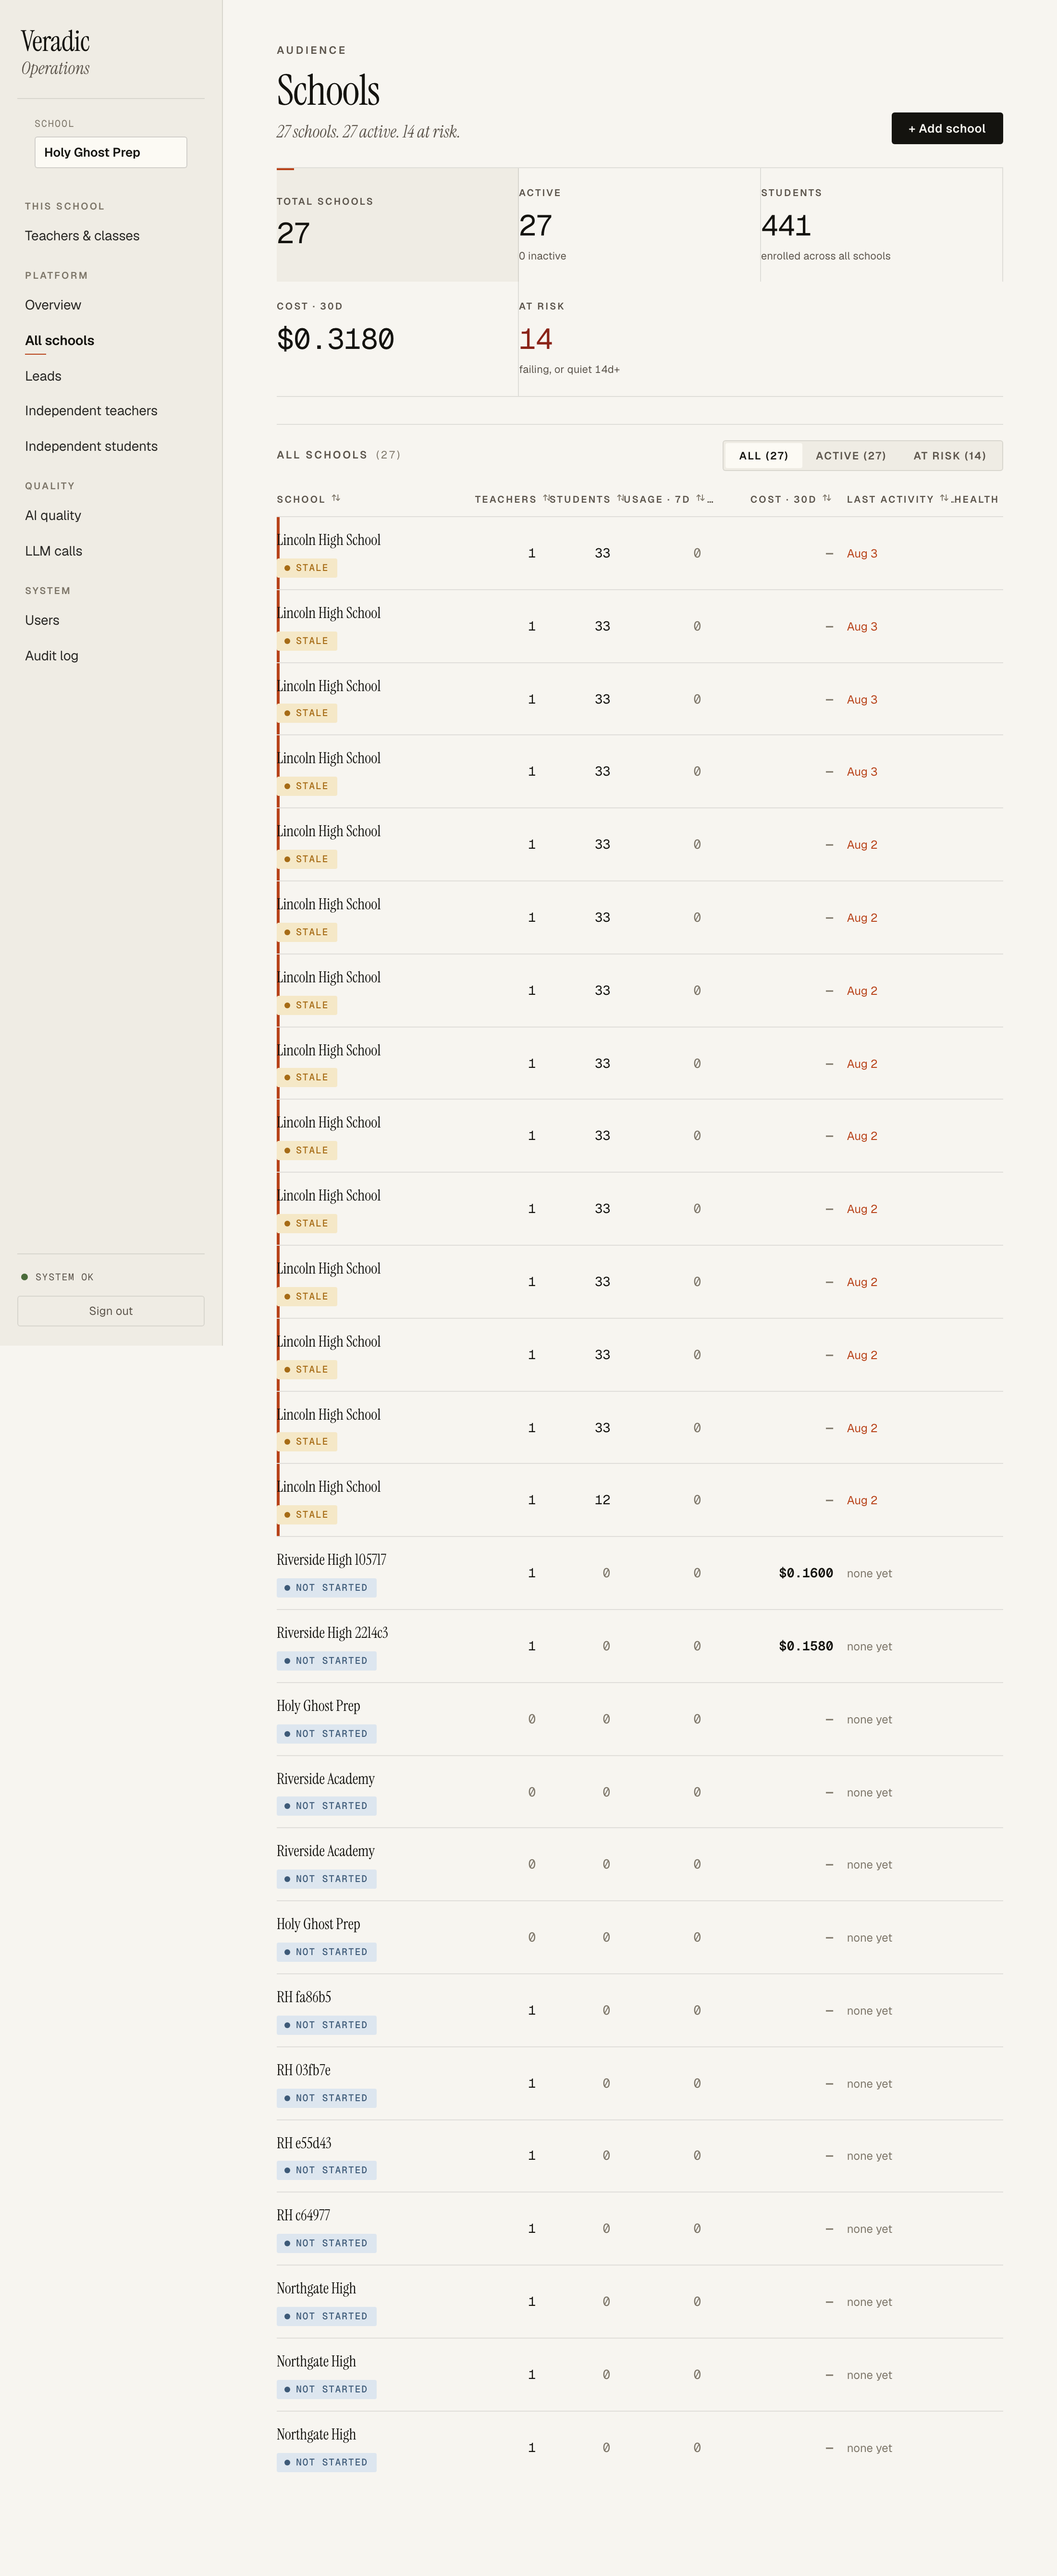
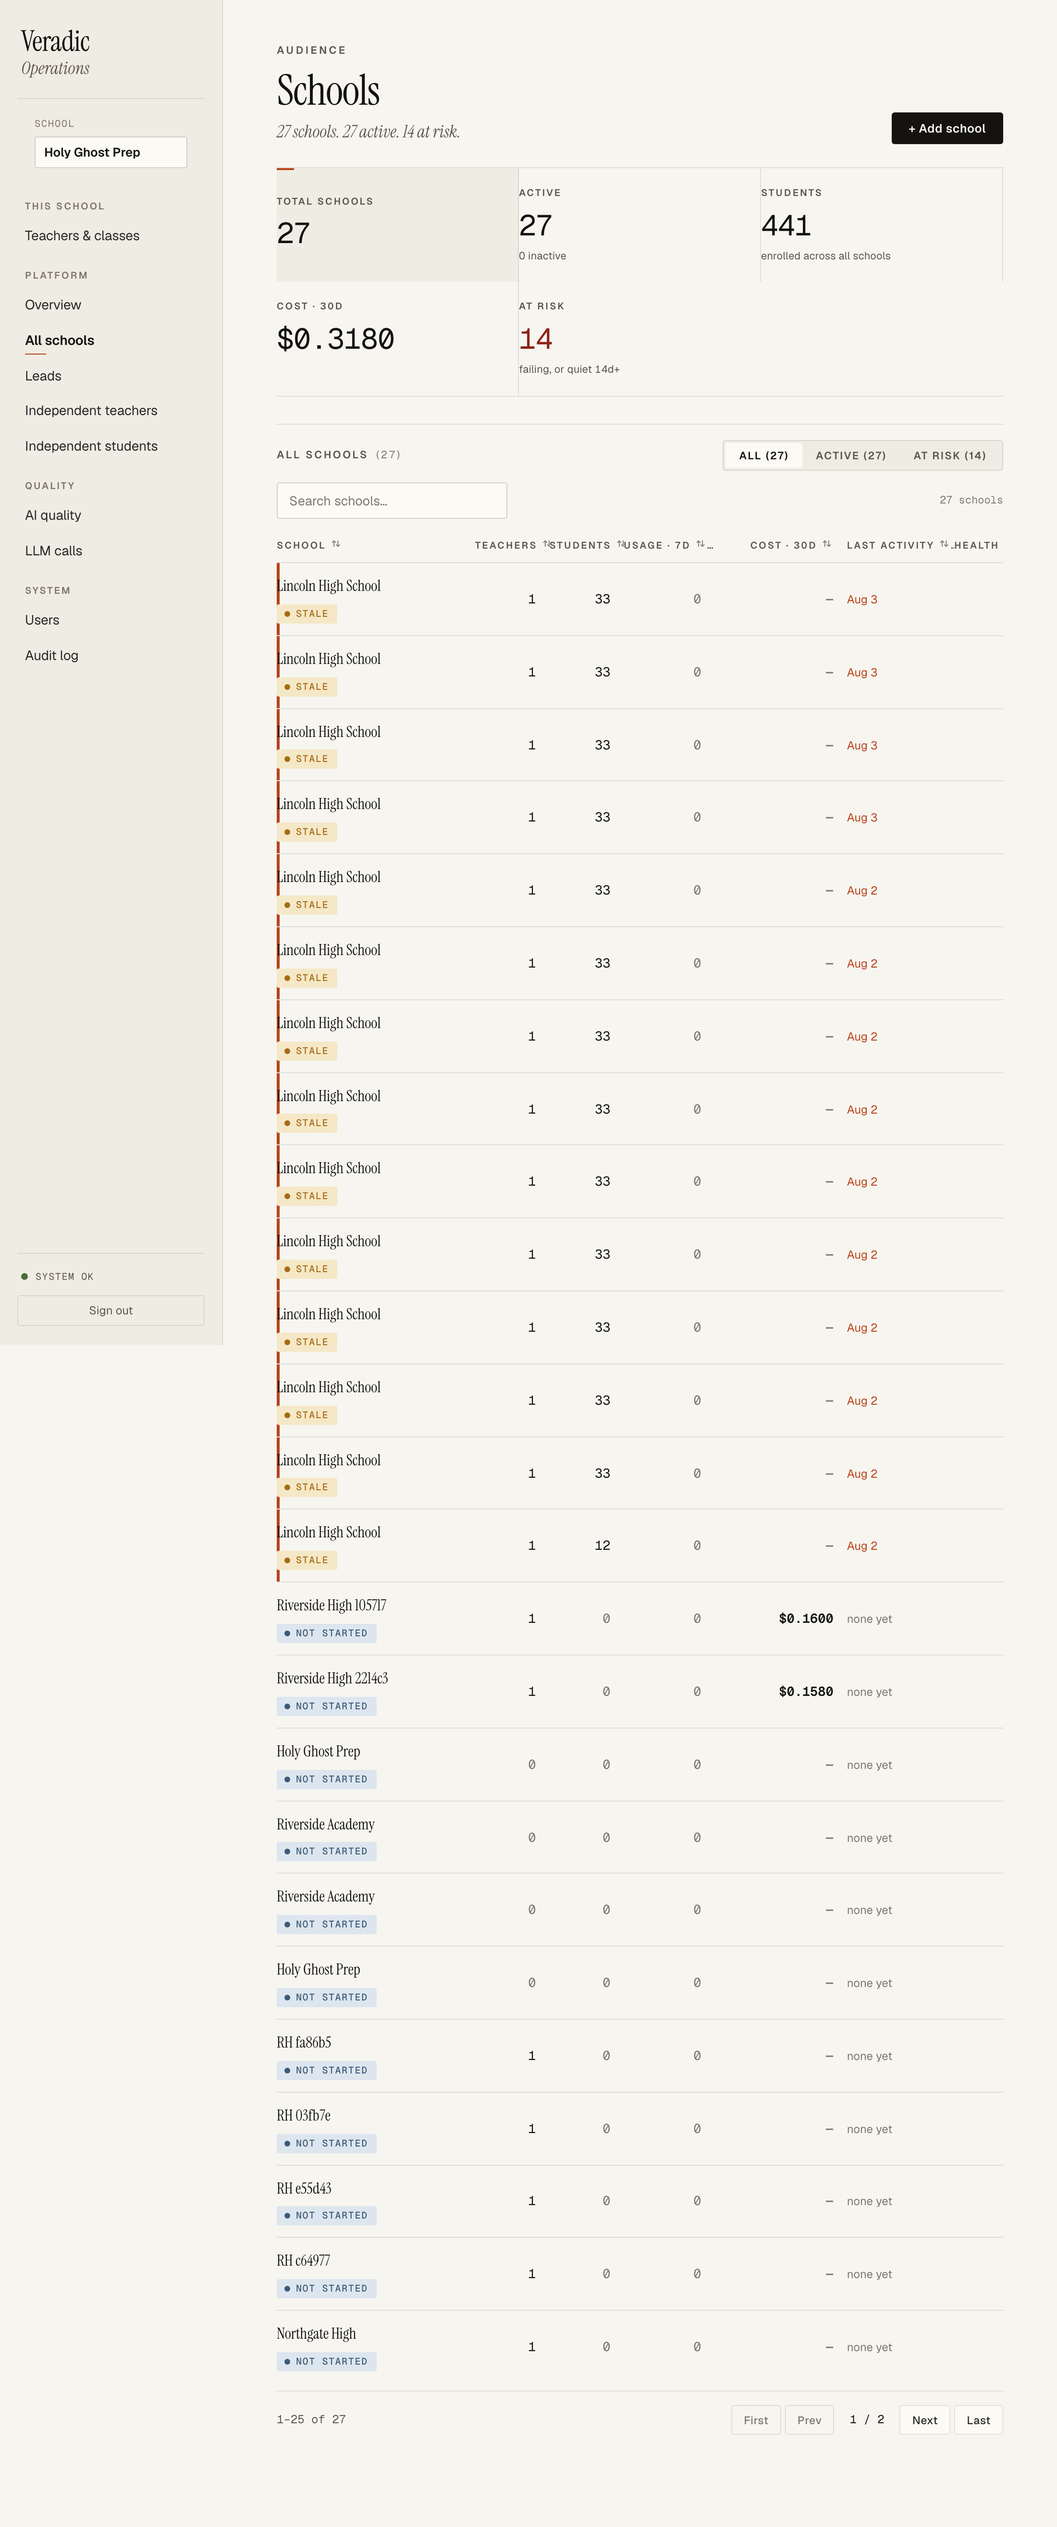
fix(dashboard): act on the cold review — the list feature was wired to nothing
An independent review found the headline change shipped completely
unused: DataTable grew `searchKeys` / `pageSize` and NOT ONE of the 13
call sites passed them. The claim that "every table gets the behaviour
instead of each page wiring it by hand" was false as shipped — zero
tables got it. I built the capability and connected it to nothing.

/schools is the table that actually needed it and is genuinely
client-side (one payload, no server paging, unlike LLM calls / Users /
Audit log which page server-side and can't be replaced by a client
filter). It now searches name, city, state and contact email — because
the real data holds fourteen schools called "Lincoln High School", so
matching on name alone finds fourteen rows. Verified live: 27 schools,
25 rows per page, "riverside" narrows to 4 of 27, no-match state renders.

Second finding, also confirmed: the rail could confidently name a
DIFFERENT school than the page was showing. `api.schools()` filters to
institutional schools; GET /schools/{id} does not. A submission trace
links straight to an indie teacher's synthetic school, so the id failed
the membership test, fell through to whatever was remembered, and the
switcher pointed somewhere else entirely — the exact outcome the
selection ordering exists to prevent. The URL now wins unconditionally,
and when the school can't be named from the list the switcher renders
nothing at all: a <select> whose value matches no option silently shows
[…]

diff --git a/dashboard/src/components/SchoolSwitcher.tsx b/dashboard/src/components/SchoolSwitcher.tsx
@@ -1,36 +1,64 @@
-import { useLocation, useNavigate } from "react-router-dom";
+import { useNavigate } from "react-router-dom";
 import { rememberSchool, type SelectedSchool } from "../lib/useSelectedSchool";
+
+/**
+ * Name plus place. School names repeat heavily in the real data — the
+ * current list holds fourteen "Lincoln High School" — so a name-only
+ * picker is fourteen identical rows with nothing to choose between them.
+ */
+function schoolLabel(s: {
+  name: string;
+  city: string | null;
+  state: string | null;
+}): string {
+  const where = [s.city, s.state].filter(Boolean).join(", ");
+  return where ? `${s.name} — ${where}` : s.name;
+}
 
 /**
  * The console's scope control, directly under the wordmark because
  * everything in "This school" below it is scoped by what's named here.
  *
- * Two shapes, deliberately:
+ * Three shapes, and the third is the important one:
  *
- *   • With one school it renders the NAME, not a dropdown. The name is
- *     context worth keeping on screen; a select of one is a control with
- *     nothing to control.
- *   • With two or more it becomes a native <select> — keyboard- and
+ *   • Two or more schools → a native <select>. Keyboard- and
  *     screen-reader-correct for free, inheriting the console's existing
- *     select styling. A hand-rolled menu would earn nothing here beyond a
+ *     select styling; a hand-rolled menu would earn nothing beyond a
  *     custom caret.
+ *   • Exactly one → the NAME, not a dropdown. The name is context worth
+ *     keeping on screen; a select of one is a control with nothing to
+ *     control.
+ *   • The page is showing a school this list doesn't contain → NOTHING.
+ *     `api.schools()` returns institutional schools only, while
+ *     GET /schools/{id} has no such filter, so an indie teacher's
+ *     synthetic school (reachable from a submission trace) is a real page
+ *     the list has never heard of. A <select> whose value matches no
+ *     option silently displays the FIRST one, which would have the rail
+ *     confidently naming the wrong school. Saying nothing is right.
  *
  * Selection logic lives in `lib/useSelectedSchool` so the rail can read it
  * without this component owning shared state.
  */
 export default function SchoolSwitcher({ selected }: { selected: SelectedSchool }) {
   const navigate = useNavigate();
-  const location = useLocation();
 
   if (selected.loading || selected.schools.length === 0) return null;
 
+  // `selected.name` is resolved from the list, so a null name here means
+  // the current school isn't one we can name — see the third case above.
+  const known = selected.name !== null;
+  if (!known) return null;
+
   const onPick = (nextId: string) => {
     rememberSchool(nextId);
-    // Stay on the same sub-page. Switching schools while looking at
-    // Teachers should show the OTHER school's teachers, not bounce to its
-    // overview and make you find your place again.
-    const tab = new URLSearchParams(location.search).get("tab");
-    navigate(`/schools/${nextId}${tab ? `?tab=${tab}` : ""}`);
+    // Straight to the school page, carrying nothing over. An earlier cut
+    // forwarded `?tab=` so a switch would keep your place — but
+    // SchoolDetail has no tabs and never reads it, and the only page that
+    // WRITES `?tab=` is AI quality, so switching school from
+    // /ai-quality?tab=harness produced /schools/<id>?tab=harness: a
+    // foreign key on a page with no tabs. Carrying a param the
+    // destination can't use is worse than dropping it.
+    navigate(`/schools/${nextId}`);
   };
 
   return (
@@ -49,7 +77,7 @@ export default function SchoolSwitcher({ selected }: { selected: SelectedSchool 
         >
           {selected.schools.map((s) => (
             <option key={s.id} value={s.id}>
-              {s.name}
+              {schoolLabel(s)}
             </option>
           ))}
         </select>

diff --git a/dashboard/src/components/Layout.tsx b/dashboard/src/components/Layout.tsx
@@ -1,5 +1,5 @@
 import { useEffect, useState } from "react";
-import { NavLink, Outlet, useLocation } from "react-router-dom";
+import { NavLink, Outlet } from "react-router-dom";
 import { apiHealth, getToken, setToken } from "../lib/api";
 import SchoolSwitcher from "./SchoolSwitcher";
 import { useSelectedSchool } from "../lib/useSelectedSchool";
@@ -7,6 +7,8 @@ import { useSelectedSchool } from "../lib/useSelectedSchool";
 interface NavItem {
   to: string;
   label: string;
+  /** Match the path exactly, not as a prefix. */
+  end?: boolean;
 }
 
 interface NavGroup {
@@ -45,7 +47,10 @@ const NAV_GROUPS: NavGroup[] = [
     label: "Platform",
     items: [
       { to: "/overview", label: "Overview" },
-      { to: "/schools", label: "All schools" },
+      // `end`: without it NavLink treats /schools as a prefix of
+      // /schools/abc, so this lit up at the same time as the school
+      // entry above — two active items, one rail.
+      { to: "/schools", label: "All schools", end: true },
       { to: "/leads", label: "Leads" },
       { to: "/teachers/independent", label: "Independent teachers" },
       { to: "/students/independent", label: "Independent students" },
@@ -82,7 +87,6 @@ export default function Layout() {
   useEffect(() => apiHealth.subscribe(setApiDown), []);
 
   const school = useSelectedSchool();
-  const location = useLocation();
 
   return (
     <div style={{ display: "flex", minHeight: "100vh" }}>
@@ -100,12 +104,7 @@ export default function Layout() {
             {SCHOOL_LINKS.map((l) => {
               const to = l.to(school.id!);
               return (
-                <NavLink
-                  key={l.label}
-                  to={to}
-                  end
-                  className={`nav-link ${location.pathname === to ? "active" : ""}`}
-                >
+                <NavLink key={l.label} to={to} end className="nav-link">
                   {l.label}
                 </NavLink>
               );
@@ -120,6 +119,7 @@ export default function Layout() {
               <NavLink
                 key={n.to}
                 to={n.to}
+                end={n.end}
                 className={({ isActive }) => `nav-link ${isActive ? "active" : ""}`}
               >
                 {n.label}

diff --git a/dashboard/src/components/DataTable.tsx b/dashboard/src/components/DataTable.tsx
@@ -223,7 +223,11 @@ export default function DataTable<T>({
             <tr>
               <td colSpan={colCount}>
                 <div className="dt-state">
-                  {query.trim() ? (
+                  {/* canSearch, not query alone: `query` survives the row
+                      count dropping below the threshold, so a stale term
+                      would otherwise suppress the caller's own empty state
+                      and offer a Clear button with no search box above it. */}
+                  {canSearch && query.trim() ? (
                     <>
                       <span className="dt-state-title">
                         No {searchLabel} match &ldquo;{query.trim()}&rdquo;.
@@ -231,7 +235,7 @@ export default function DataTable<T>({
                       <div className="dt-state-sub">
                         <button
                           type="button"
-                          className="dt-retry"
+                          className="dt-clear"
                           onClick={() => setQuery("")}
                         >
                           Clear search

diff --git a/dashboard/src/lib/useSelectedSchool.ts b/dashboard/src/lib/useSelectedSchool.ts
@@ -81,10 +81,16 @@ export function useSelectedSchool(): SelectedSchool {
   }, []);
 
   const id = useMemo(() => {
+    // The URL wins UNCONDITIONALLY when there is one, even if the school
+    // isn't in the switcher's list. `api.schools()` returns only
+    // institutional schools, while GET /schools/{id} has no such filter —
+    // so an indie teacher's synthetic school (reachable from a submission
+    // trace) renders a page the list has never heard of. Falling through
+    // there would leave the rail confidently naming a DIFFERENT school
+    // than the page is showing, which is the one outcome this ordering
+    // exists to prevent.
+    if (routeId) return routeId;
     if (!schools || schools.length === 0) return null;
-    // A URL only wins if it names a school we actually have, so a stale
-    // link to a deleted school falls through instead of selecting nothing.
-    if (routeId && schools.some((s) => s.id === routeId)) return routeId;
     const saved = remembered();
     if (saved && schools.some((s) => s.id === saved)) return saved;
     return schools[0].id;

diff --git a/dashboard/src/index.css b/dashboard/src/index.css
@@ -2057,6 +2057,22 @@ input::placeholder, textarea::placeholder { color: var(--muted-2); }
   margin-bottom: 10px;
 }
 
+/* Clearing a search is a benign correction, not a failure — it must not
+   wear .dt-retry, which is red because it belongs to the error state. */
+.dt-clear {
+  margin-top: 8px;
+  padding: 4px 10px;
+  background: transparent;
+  border: 1px solid var(--rule-strong);
+  border-radius: 3px;
+  font-family: var(--font-sans);
+  font-size: 12px;
+  color: var(--muted);
+  cursor: pointer;
+}
+
+.dt-clear:hover { border-color: var(--ink-soft); color: var(--ink); }
+
 .dt-count {
   font-family: var(--font-mono);
   font-size: 11px;

diff --git a/dashboard/src/pages/Schools.tsx b/dashboard/src/pages/Schools.tsx
@@ -318,6 +318,13 @@ export default function Schools() {
           drill
           loading={loading}
           minWidth={860}
+          // Client-side, unlike the server-paged tables elsewhere: this
+          // endpoint returns every school in one payload. Names repeat
+          // heavily in the real data, so city/state are searchable too —
+          // typing "Lincoln" alone would match fourteen rows.
+          searchKeys={(s) => [s.name, s.city, s.state, s.contact_email]}
+          searchLabel="schools"
+          pageSize={25}
           rowStatus={(s) =>
             s.failed_calls_24h > 0
               ? "var(--danger)"
